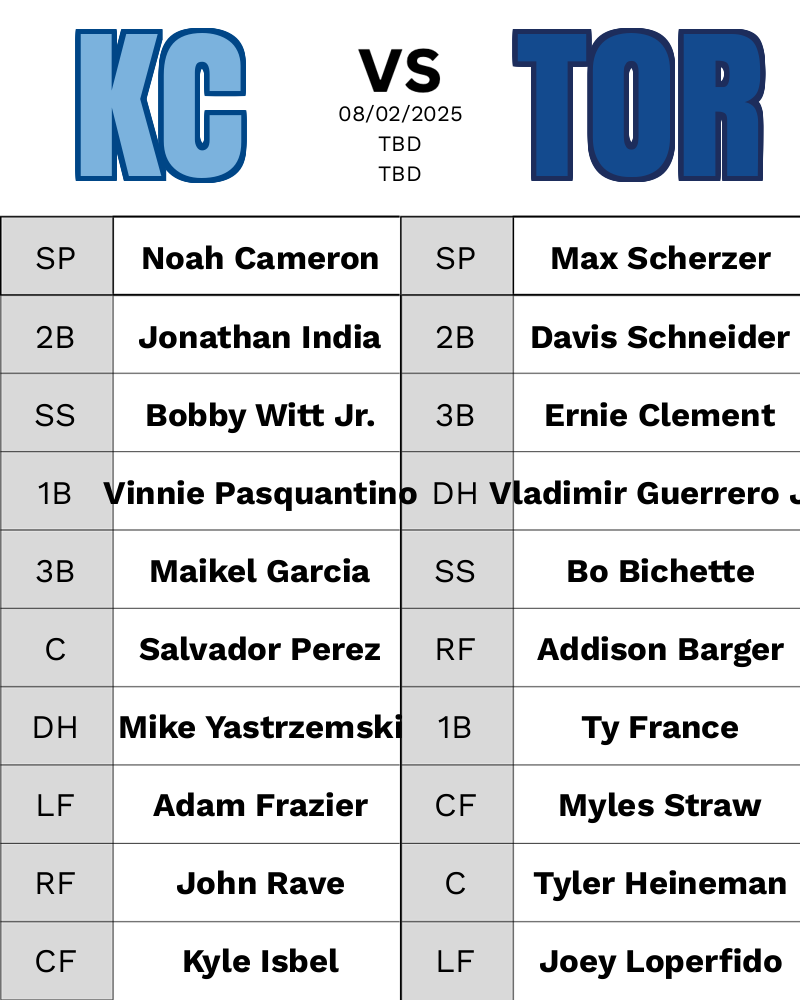
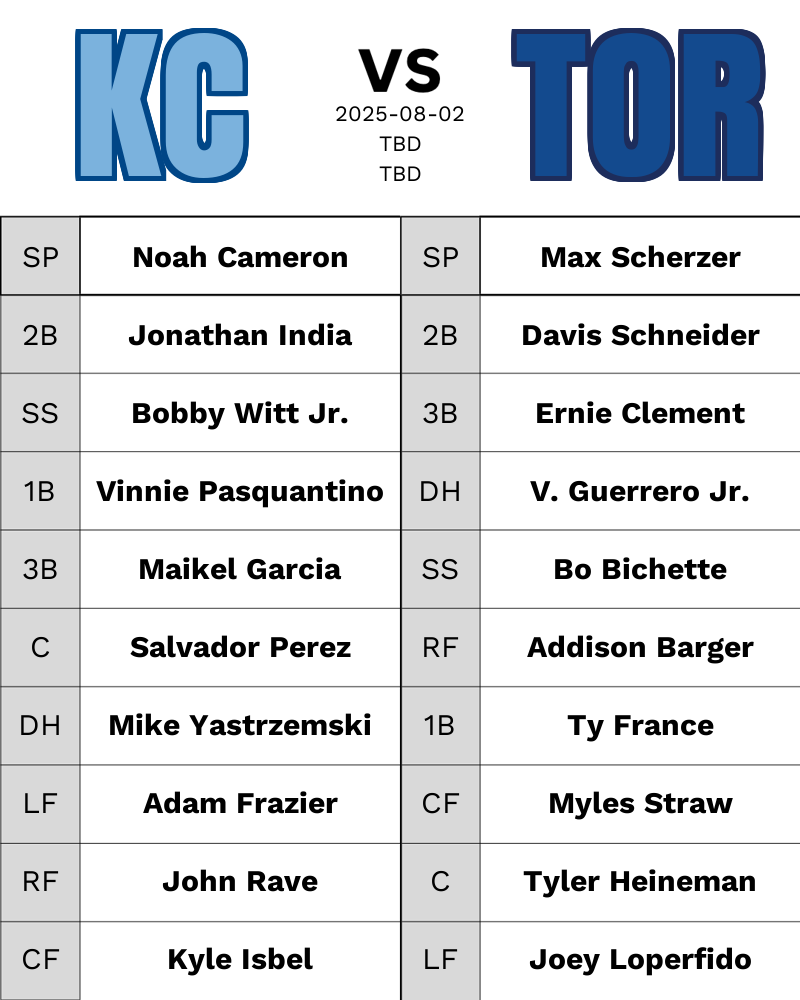
VenueUpdates

diff --git a/MLB_Matchup/src/twitter_image_generator.py b/MLB_Matchup/src/twitter_image_generator.py
@@ -155,7 +155,9 @@ class TwitterImageGenerator:
         # Game date and venue info - centered below VS
         game_date = game_data.get('game_date', 'TBD')
         venue = game_data.get('venue', 'TBD')
-        location = game_data.get('location', 'TBD')
+        city = game_data.get('city', 'TBD')
+        state = game_data.get('state', 'TBD')
+        location = f"{city}, {state}"
         
         x, y = self.get_centered_text_xy(draw, game_date, self.font_mid, (400, 40))
         draw.text((x, 100), game_date, font=self.font_mid, fill=self.text_color)
@@ -170,36 +172,45 @@ class TwitterImageGenerator:
         
         # Define positions for text (you'll need to adjust these to match your template)
         YvalTopCell = 250
-        row_h = 78
+        rowHeight = 78
+        maximumNameWidth = 300
         
         # Pitcher names with separate SP label and name fields
         away_sp = game_data.get('away_pitcher', 'TBD')
         home_sp = game_data.get('home_pitcher', 'TBD')
 
-        x, y = self.get_centered_text_xy(draw, "SP", self.font_reg, (55, YvalTopCell))
+        x, y = self.get_centered_text_xy(draw, "SP", self.font_reg, (40, YvalTopCell))
         draw.text((x, y), "SP", font=self.font_reg, fill="black")
 
-        x, y = self.get_centered_text_xy(draw, away_sp, self.font_bold, (260, YvalTopCell))
+        x, y = self.get_centered_text_xy(draw, away_sp, self.font_bold, (240, YvalTopCell))
         draw.text((x, y), away_sp, font=self.font_bold, fill="black")
 
-        x, y = self.get_centered_text_xy(draw, "SP", self.font_reg, (455, YvalTopCell))
+        x, y = self.get_centered_text_xy(draw, "SP", self.font_reg, (440, YvalTopCell))
         draw.text((x, y), "SP", font=self.font_reg, fill="black")
 
-        x, y = self.get_centered_text_xy(draw, home_sp, self.font_bold, (660, YvalTopCell))
+        x, y = self.get_centered_text_xy(draw, home_sp, self.font_bold, (640, YvalTopCell))
         draw.text((x, y), home_sp, font=self.font_bold, fill="black")
         
         # Draw lineup text only
         for i in range(9):
-            y = (YvalTopCell+45) + row_h*(i)
+            y = (YvalTopCell+45) + rowHeight*(i)
             
             # Away team lineup (left column)
             if i < len(away_lineup):
                 player = away_lineup[i]
                 pos = player.get('position', '')
                 name = player.get('name', '')
-                x, n = self.get_centered_text_xy(draw, pos, self.font_reg, (55, 40))
+
+                # Shorten name if too wide
+                name_bbox = draw.textbbox((0, 0), name, font=self.font_bold)
+                if (name_bbox[2] - name_bbox[0]) > maximumNameWidth:
+                    parts = name.split()
+                    if len(parts) > 1:
+                        name = f"{parts[0][0]}. {' '.join(parts[1:])}"
+
+                x, n = self.get_centered_text_xy(draw, pos, self.font_reg, (40, 40))
                 draw.text((x, y+22), pos, font=self.font_reg, fill="black")
-                x, n = self.get_centered_text_xy(draw, name, self.font_bold, (260, 40))
+                x, n = self.get_centered_text_xy(draw, name, self.font_bold, (240, 40))
                 draw.text((x, y+22), name, font=self.font_bold, fill="black")
             
             # Home team lineup (right column)
@@ -207,9 +218,17 @@ class TwitterImageGenerator:
                 player = home_lineup[i]
                 pos = player.get('position', '')
                 name = player.get('name', '')
-                x, n = self.get_centered_text_xy(draw, pos, self.font_reg, (455, 40))
+
+                # Shorten name if too wide
+                name_bbox = draw.textbbox((0, 0), name, font=self.font_bold)
+                if (name_bbox[2] - name_bbox[0]) > maximumNameWidth:
+                    parts = name.split()
+                    if len(parts) > 1:
+                        name = f"{parts[0][0]}. {' '.join(parts[1:])}"
+
+                x, n = self.get_centered_text_xy(draw, pos, self.font_reg, (440, 40))
                 draw.text((x, y+22), pos, font=self.font_reg, fill="black")
-                x, n = self.get_centered_text_xy(draw, name, self.font_bold, (660, 40))
+                x, n = self.get_centered_text_xy(draw, name, self.font_bold, (640, 40))
                 draw.text((x, y+22), name, font=self.font_bold, fill="black")
         
         # Save the image

diff --git a/MLB_Matchup/src/MLBMatchup.py b/MLB_Matchup/src/MLBMatchup.py
@@ -78,6 +78,22 @@ def get_game_data(game):
     # Get game date and time
     game_datetime = game.get('game_datetime', '')
     game_date = game.get('game_date', '')
+
+    venue_id = game.get('venue_id')
+    venue_name = 'Unknown Venue'
+    city = 'Unknown City'
+    state = 'Unknown State'
+
+    if venue_id:
+        venue_data = statsapi.get('venue', {'venueIds': venue_id})
+        venue = venue_data['venues'][0]
+        pprint.pprint(venue)
+        venue_name = venue.get('name', 'Unknown Venue')
+        city = venue.get('city', 'Unknown City')
+        state = venue.get('state', 'Unknown State')
+        print(city, state)
+
+    print(game.keys())
     
     # Format the date and time separately
     if game_datetime:
@@ -110,6 +126,9 @@ def get_game_data(game):
         'game_time': formatted_time,
         'home_lineup': [],
         'away_lineup': [],
+        'venue': venue_name,
+        'city': city,
+        'state': state,
         'lineups_official': are_lineups_official(boxscore)
     }
     
